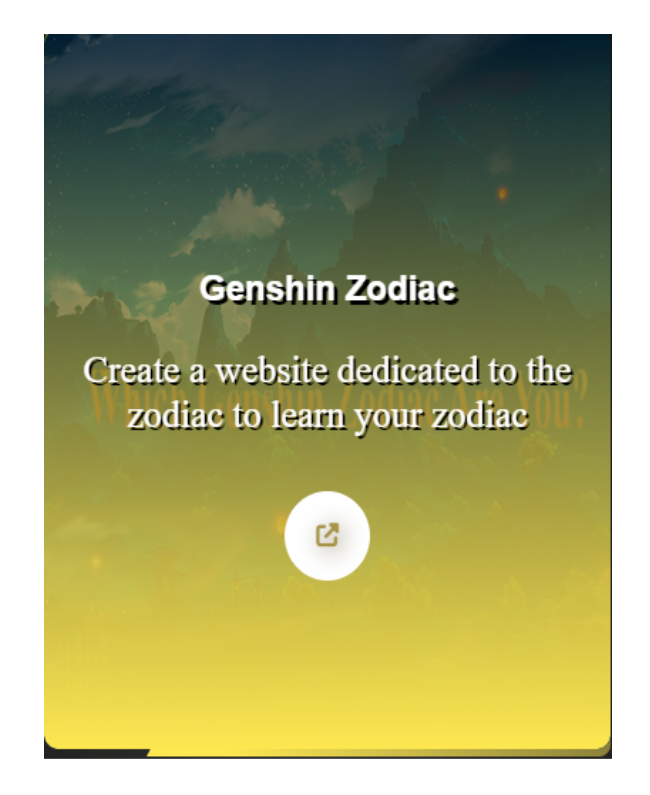
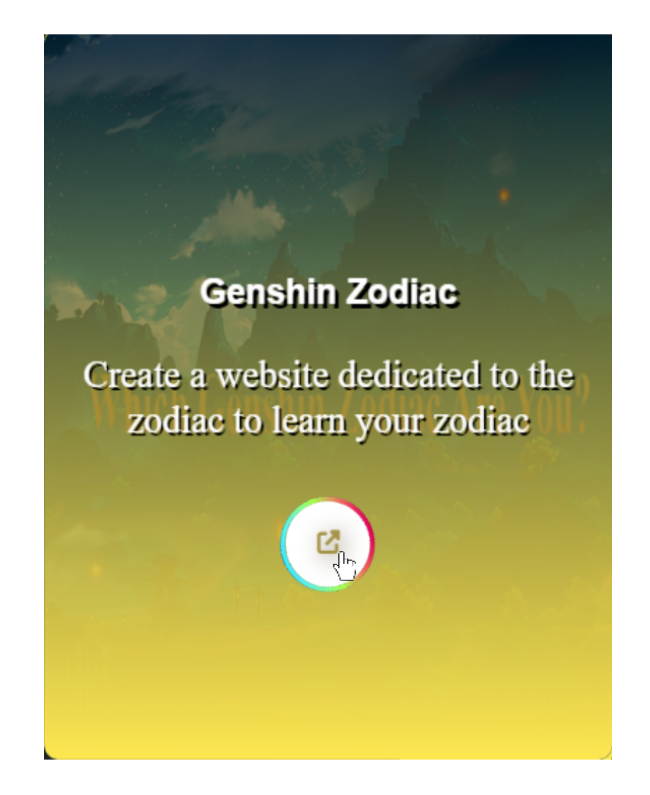
Update

diff --git a/idm241/beta/index.html b/idm241/beta/index.html
@@ -4,7 +4,7 @@
     <meta charset="UTF-8">
     <meta http-equiv="X-UA-Compatible" content="IE=edge">
     <meta name="viewport" content="width=device-width, initial-scale=1.0">
-    <title>idm241</title>
+    <title>Tony Chen: IDM241/Beta</title>
     <link rel="stylesheet" href="/idm241/beta/css/style.css">
     <link rel="shortcut icon" type="image/png" href="/idm241/beta/image/j.png">
     <!--This is fontawesome.com script for font-->
@@ -29,7 +29,8 @@
                 <h3>Trigger</h3>
                 <hr>
                 <ul>
-                    <li> When the page loads, the glow light begins to circle around</li>
+                    <li> When the page loads.</li>
+                    <li> Touch the button, glowing effect on hover overs the button.</li>
                 </ul>
             </div>
             <div class="script-2">
@@ -38,7 +39,8 @@
                 <ul>
                     <li>Gold glow light circle around the square</li>
                     <li>Gold glow light rotate clockwise direction</li>
-                    <li>On hovering, the top,left,right glow light disappears and the bottom glow light appears.</li>
+                    <li>On hovering, glow light disappears.</li>
+                    <li>Touch the button and cursor changes from default to pointer</li>
                 </ul>
             </div>
             <div class="script-2">
@@ -47,7 +49,8 @@
                 <ul>
                     <li>Gold glow light circle around the square</li>
                     <li>Gold glow light rotate clockwise direction</li>
-                    <li>On hovering, the top,left,right glow light disappears and the bottom glow light appears.</li>
+                    <li>On hovering, glow light disappears.</li>
+                    <li>Touch the button and cursor changes from default to pointer</li>
                 </ul>
             </div>
             <div class="script-2">
@@ -55,8 +58,9 @@
                 <h3>Loops and Modes</h3>
                 <hr>
                 <ul>
-                    <li>Glow Light square infinite Circle</li>
-                    <li>On Hover, bottom glow light infinite loading</li>
+                    <li>Glow Light infinite circle around square </li>
+                    <li>Hover up with the additional Information</li>
+    
                 </ul>
             </div>
             </div>

diff --git a/idm241/beta/build/css/style.css b/idm241/beta/build/css/style.css
@@ -145,7 +145,7 @@ li {
 /*  color: rgb(202, 182, 68);*/
 @media only screen and (max-width: 768px) {
 main {
-    margin: 0 30px
+    margin: 5px
 }
 }
 
@@ -213,6 +213,7 @@ ul, li {
     transition: 0.7s;
     max-height: 477px;
     margin-top: 5px;
+    margin-bottom: 5px
    
 }
 /*---------------------------------------------------------------------------------------*/
@@ -387,13 +388,13 @@ img {
 /*--------------2nd Microinteraction start here and growing light design----------------*/
 .work-list {
     position: relative;
-    width: 398px;
-    height:487px;
+    max-width: 398px;
+    min-height:482px;
     background: linear-gradient(#FEE851);
-    border-radius: 8px;
     overflow: hidden;
     margin-left: auto;
     margin-right:auto;
+    border-radius: 3%;
 }
 .work-list::before {
     content: '';
@@ -418,6 +419,7 @@ img {
     transform-origin: bottom right;
     animation: animate 4s linear infinite;
     animation-delay: -2s;
+    
 }
 @keyframes animate
 {
@@ -432,25 +434,26 @@ img {
 }
 /*---------------------------------------------------------------------------------------*/
 
-/*-------------------------2nd microinteraction mobile size------------------------------*/
+/*-----------------2nd GLOW  HERE microinteraction mobile size---------------------------*/
 @media only screen and (max-width: 768px) {
     .work-list {
         width: 100%;
-        margin-top: 5px;
-        height: 100%;
+        margin-top: 0px;
+        min-height:0;
+
     }
     }
 
 @media only screen and (max-width: 768px) {
     .work-list2{
         width: 100%;
-        margin-bottom: 5px;
+        margin-bottom: 0px;
     }
     }
 @media only screen and (max-width: 768px) {
     .work-list:before {
         width: 100%;
-        margin-top: 5px;
+        margin-top: 0px;
         height: 100%;
         top: -50%;
         left: -50%;
@@ -460,9 +463,10 @@ img {
 @media only screen and (max-width: 768px) {
     .work-list2:before{
         width: 100%;
-        margin-bottom: 5px;
+        margin-bottom: 0px;
         top: -70%;
         left: -50%;
+    
     }
     }
 

diff --git a/idm241/beta/build/index.html b/idm241/beta/build/index.html
@@ -4,7 +4,7 @@
     <meta charset="UTF-8">
     <meta http-equiv="X-UA-Compatible" content="IE=edge">
     <meta name="viewport" content="width=device-width, initial-scale=1.0">
-    <title>idm241</title>
+    <title>Tony Chen: IDM241/Beta</title>
     <link rel="stylesheet" href="/idm241/beta/build/css/style.css">
     <link rel="shortcut icon" type="image/png" href="/idm241/beta/build/image/j.png">
     <!--This is fontawesome.com script for font-->
